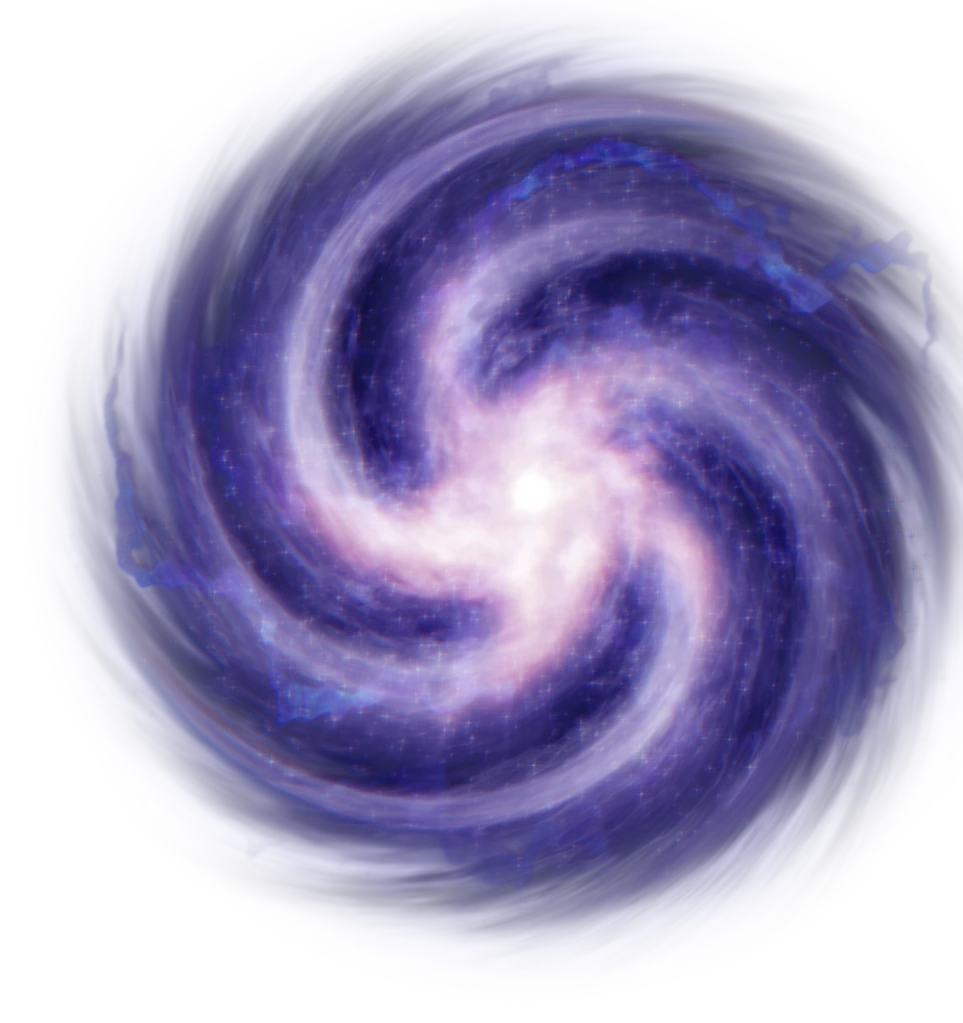
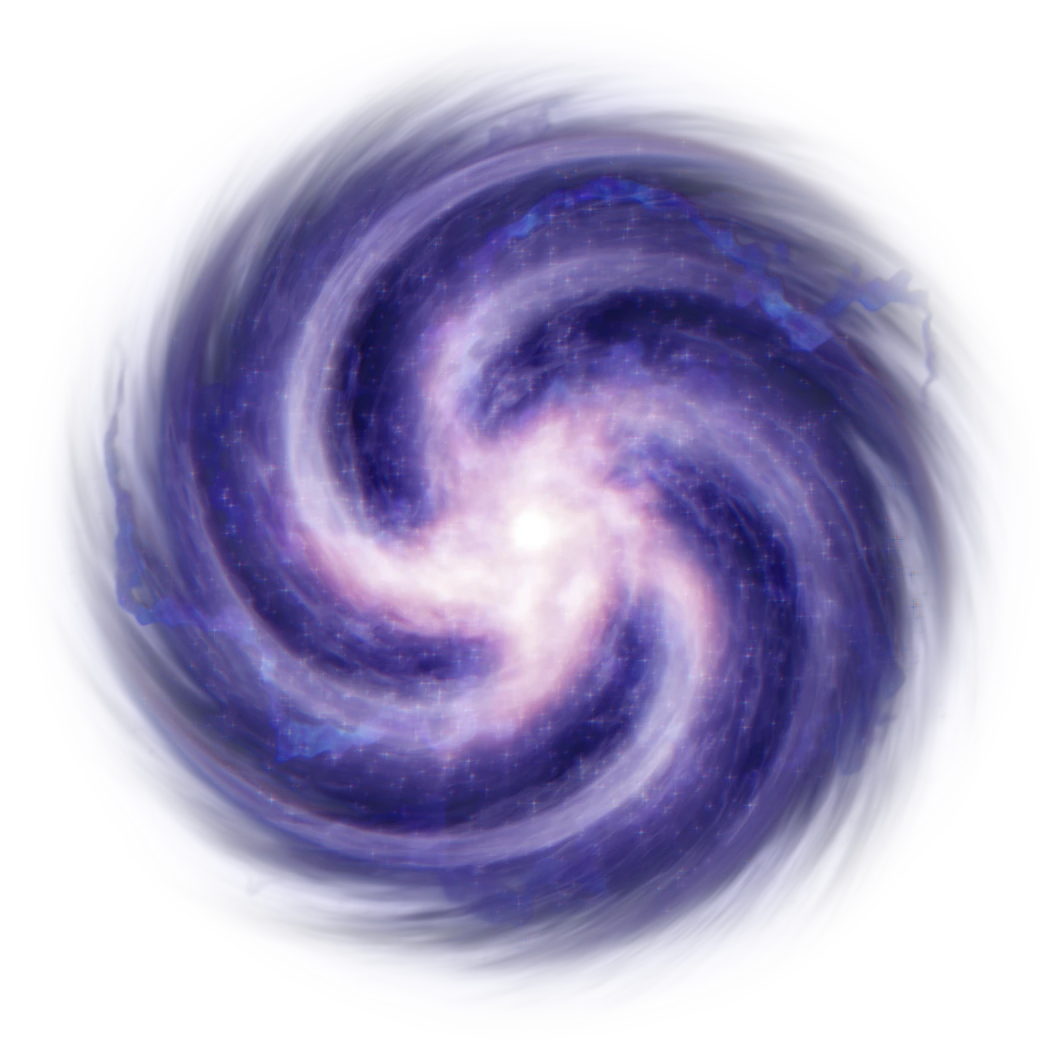
img links update

diff --git a/src/views/Home/components/Hero.tsx b/src/views/Home/components/Hero.tsx
@@ -241,7 +241,7 @@ const Hero = () => {
   </StarsWrapper> */}
         </Flex>
         <GalaxySection>
-          <img className="rotating" onLoad={MobilePlayBtnSetup} id="lunar--galaxy" src="/images/home/lunar-galaxy/galaxy.png" alt="galaxy" />
+          <img className="rotating" onLoad={MobilePlayBtnSetup} id="lunar--galaxy" src="/images/home/lunar-galaxy/galaxy.webp" alt="galaxy" />
         </GalaxySection>
         <PlayImgButton id="mainPlayBtn" style={{top: playBtnTop}} onClick={OpenVideo} />
         {/* <GalaxyImg style={{ top: galaxyTop }} id="lunar--galaxy" onLoad={MobilePlayBtnSetup}

diff --git a/src/style/Global.tsx b/src/style/Global.tsx
@@ -36,12 +36,16 @@ const GlobalStyle = createGlobalStyle`
   }
 
   @media screen and (min-width: 1336px) {
-     background: repeat url(/images/home/background/wallpaper_sd.webp);
+    body {
+      background: repeat url(/images/home/background/wallpaper_sd.webp);
+    }
   }
 
   @media screen and (min-width: 1920px) {
-    background: repeat url(/images/home/background/wallpaper_hd.webp);
- }
+    body {
+      background: repeat url(/images/home/background/wallpaper_hd.webp);
+    }
+  }
 
   @media screen and (max-width: 768px) {
     body {
